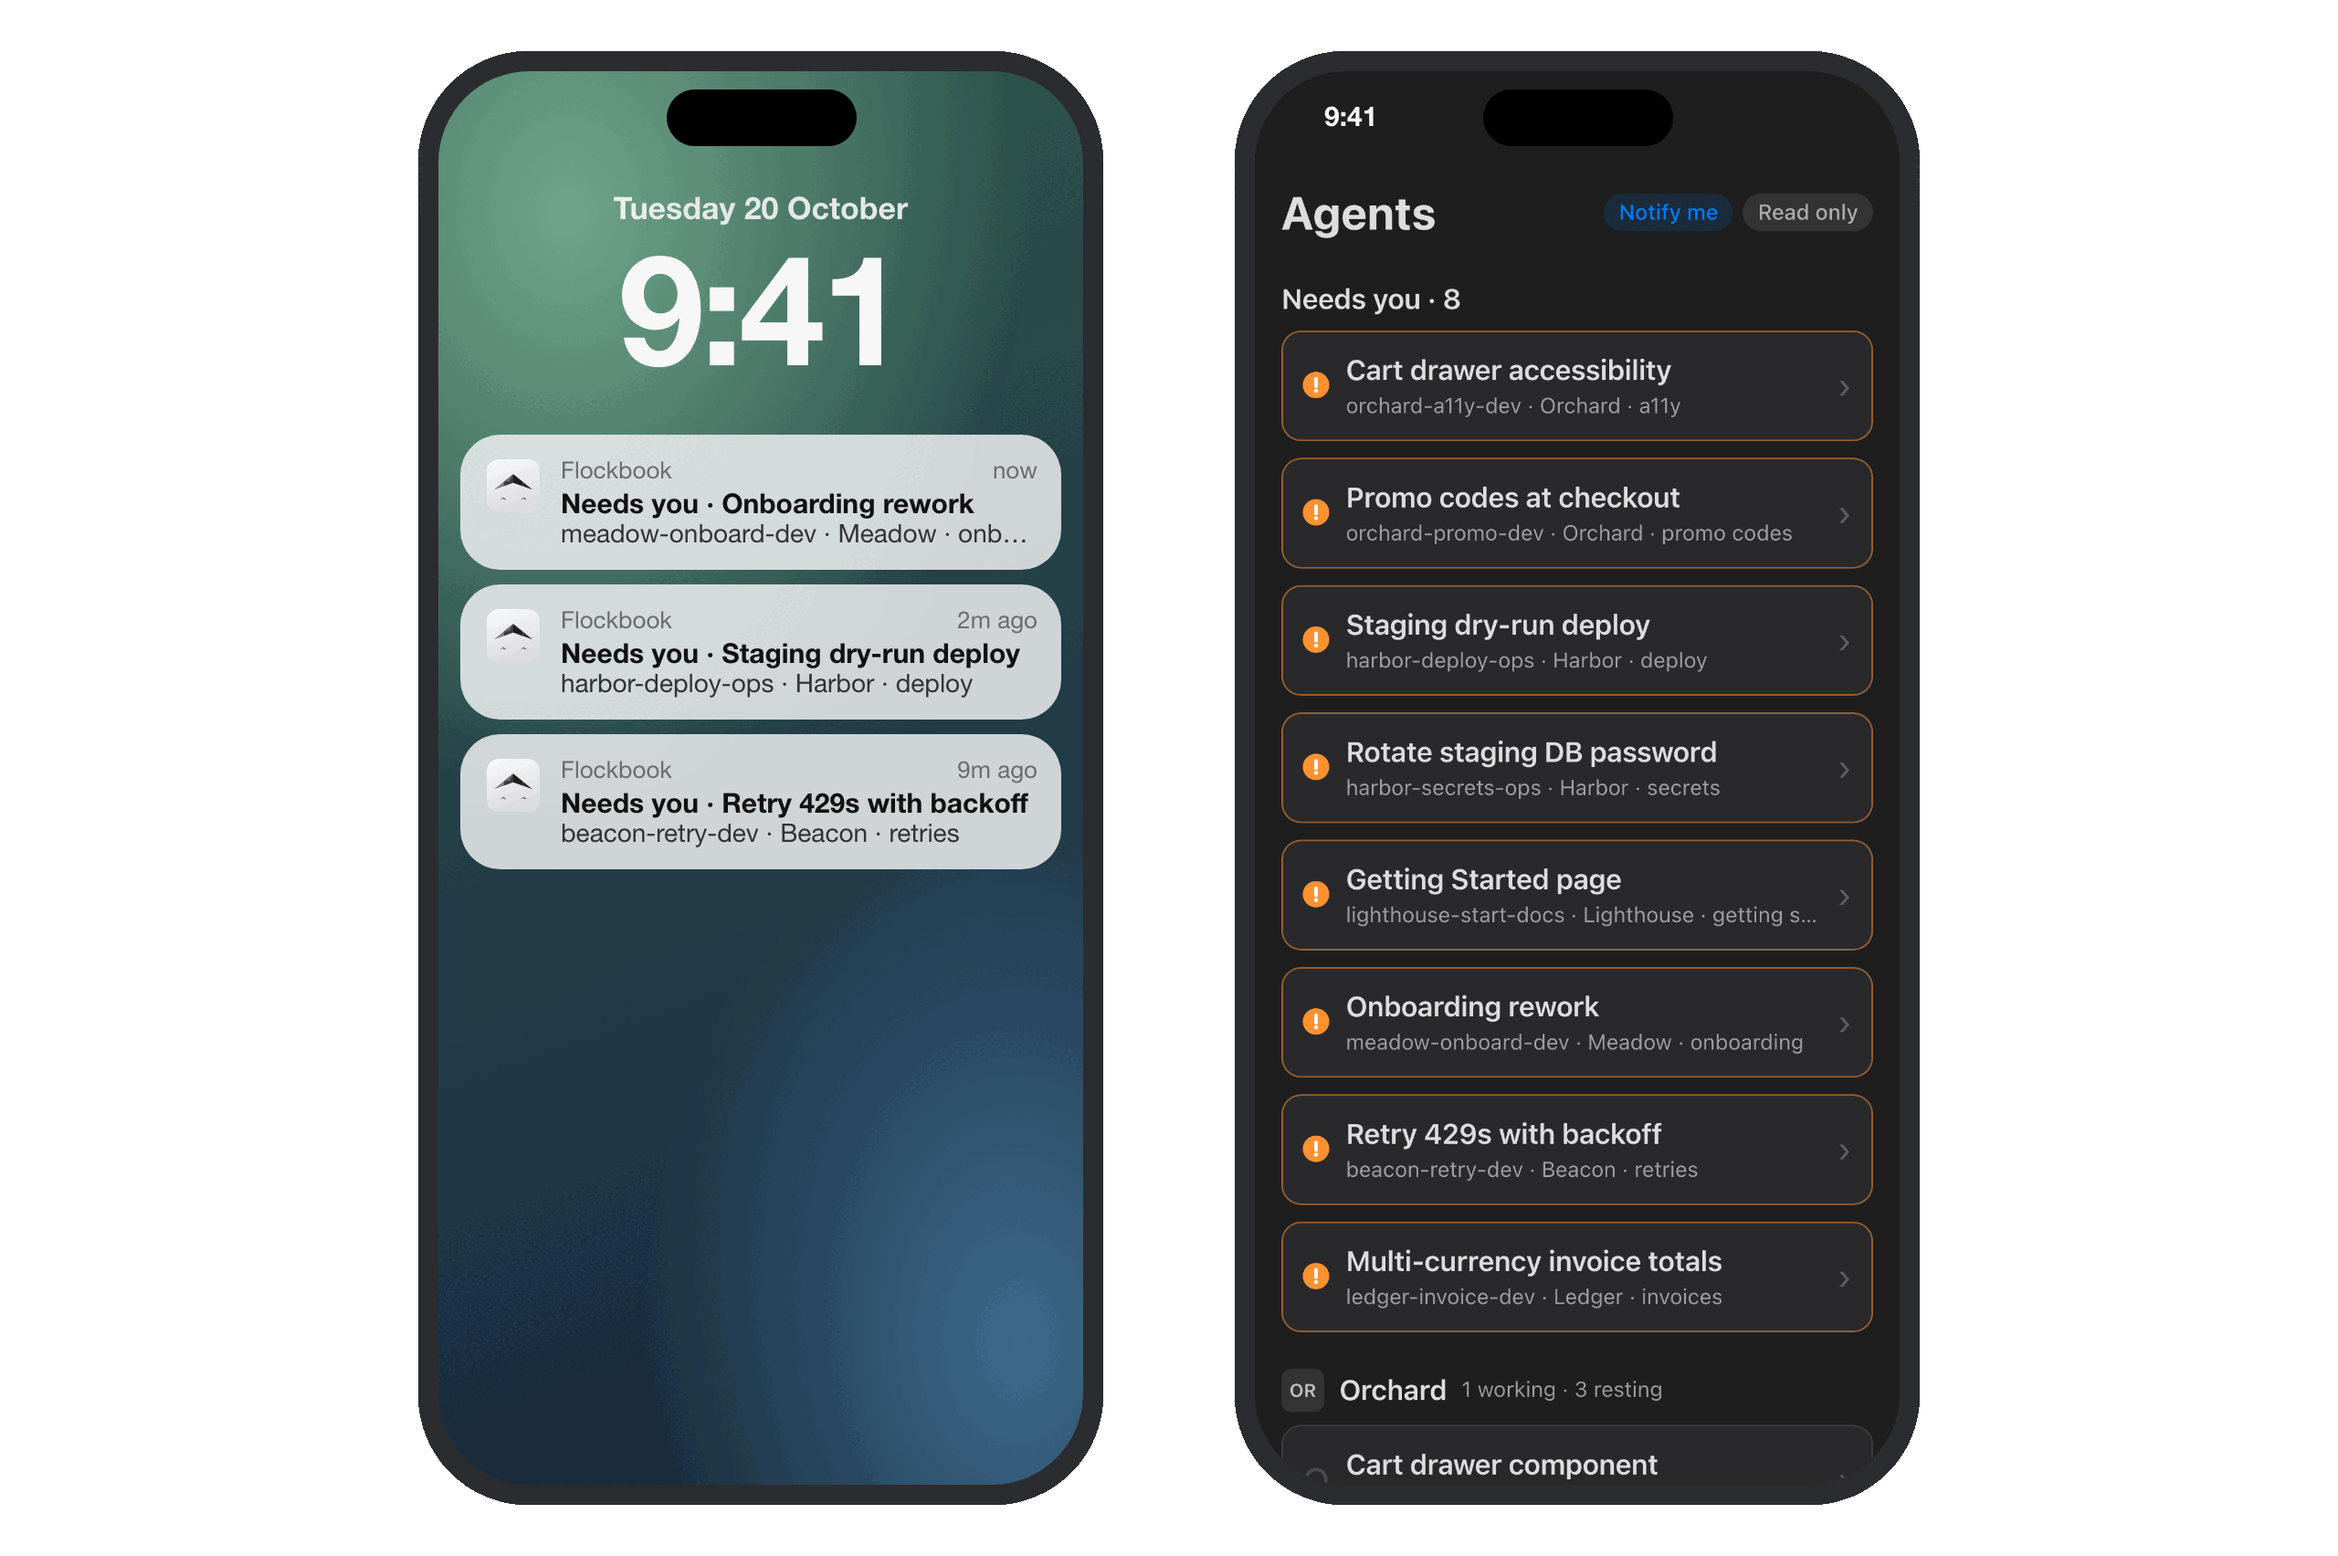
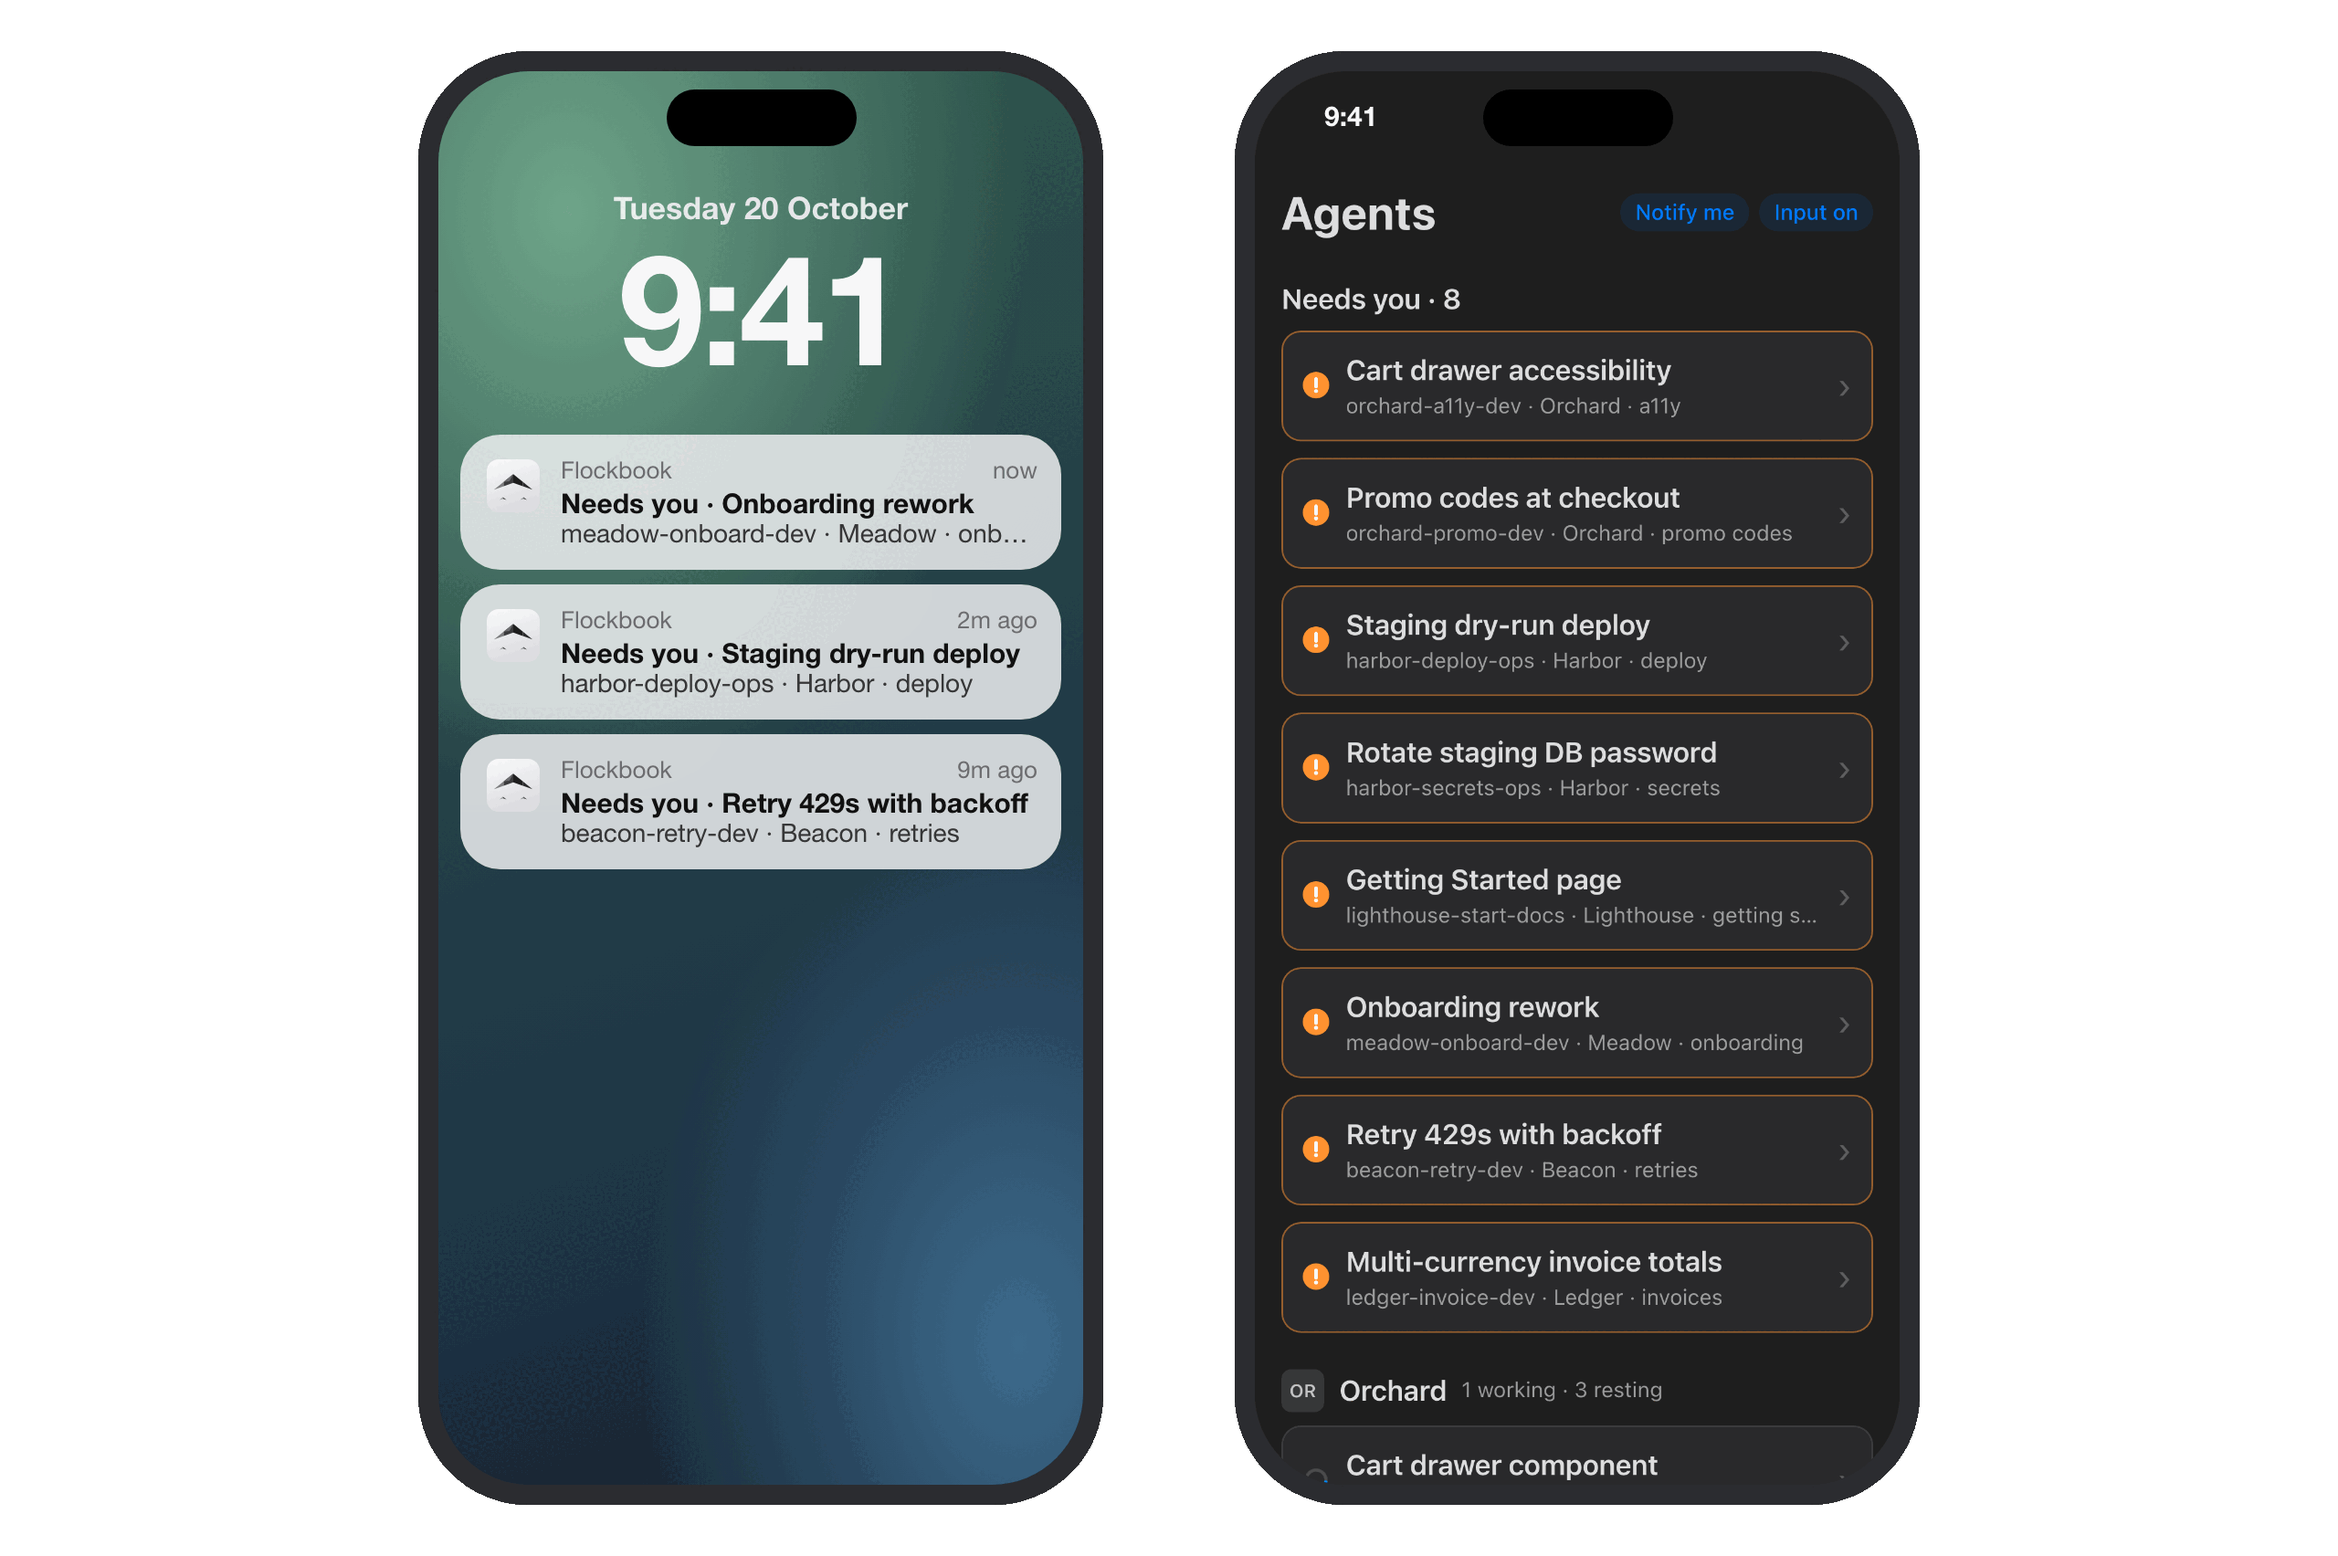
Phone stills with an input device that is revoked after; remote access wording covers the local network
The phone stills pair an input-level device (demo sessions only) so the page
shows as a paired phone's does. The page may only send reads; anything else is
dropped and fails the run. The hub revokes the device when it stops.

Claude-Session: https://claude.ai/code/session_01VoeBGcczPnVqJsC1AMi8vz

Changed region(s): [[0.6875, 0.1244, 0.8125, 0.1555], [0.625, 0.8087, 0.6562, 0.8398]]

diff --git a/Sources/HerdrDesk/HubLiveTest.swift b/Sources/HerdrDesk/HubLiveTest.swift
@@ -207,7 +207,9 @@ enum HubLiveTest {
 
     /// `--session <named> --serve-remote`: the app's RemoteHub on 127.0.0.1 (temp folder, new certificate) with one
     /// read-level test device, for the browser smoke run (`scripts/web-test.mjs --live`). Prints one JSON line, serves
-    /// until stdin closes. A read device cannot send input.
+    /// until stdin closes. A read device cannot send input. `SERVE_REMOTE_LEVEL=input` (the phone stills,
+    /// scripts/demo/phone-stills.mjs): an input device instead, only on a demo session; the stills send nothing.
+    /// The device is revoked before the hub stops.
     static func serve(model: AppModel) async {
         try? await Task.sleep(for: .seconds(2))
         let dir = URL(fileURLWithPath: NSTemporaryDirectory() + "hkserve-\(UUID().uuidString)")
@@ -217,7 +219,12 @@ enum HubLiveTest {
         AppDefaults.store.set(RemoteHub.Mode.direct.rawValue, forKey: RemoteHub.modeKey)
         let store = FileDeviceStore(url: dir.appendingPathComponent("devices.json"))
         let token = HubToken.random()
-        store.add(token: token, device: HubDevice(id: "live-read", name: "Live read test", level: .read), paired: Date())
+        let input = ProcessInfo.processInfo.environment["SERVE_REMOTE_LEVEL"] == "input"
+        guard !input || model.store.session.name?.contains("demo") == true else {
+            print("serve-remote: FAIL an input device only on a demo session"); NSApp.terminate(nil); return
+        }
+        let device = input ? HubDevice(id: "live-input", name: "Demo stills", level: .input) : HubDevice(id: "live-read", name: "Live read test", level: .read)
+        store.add(token: token, device: device, paired: Date())
         let hub = RemoteHub(model: model, devices: store, dir: dir)
         hub.enabled = true
         for _ in 0..<50 where !hub.running && hub.problem == nil { try? await Task.sleep(for: .milliseconds(100)) }
@@ -226,6 +233,8 @@ enum HubLiveTest {
         if let d = try? JSONSerialization.data(withJSONObject: info, options: [.sortedKeys]) { print(String(decoding: d, as: UTF8.self)) }
         fflush(stdout)
         await Task.detached { while FileHandle.standardInput.availableData.count > 0 {} }.value
+        store.revoke(device: device.id)
+        print("serve-remote: revoked \(device.id) (\(store.device(id: device.id) == nil ? "gone" : "still there"))"); fflush(stdout)
         hub.enabled = false
         try? await Task.sleep(for: .milliseconds(200))
         try? FileManager.default.removeItem(at: dir)

diff --git a/site/src/routes/+page.svelte b/site/src/routes/+page.svelte
@@ -126,8 +126,8 @@
 				<dd>
 					Runs locally. Reads agent session logs on your Mac and talks to Herdr through its local socket.
 					No telemetry. It goes on the network only for the daily update check (you can turn it off) and, when
-					you turn them on, for remote access over your Tailscale network and for notifications through your
-					phone’s push service.
+					you turn them on, for remote access over Tailscale or your local network and for notifications
+					through your phone’s push service.
 				</dd>
 			</div>
 		</dl>

diff --git a/site/src/lib/content.js b/site/src/lib/content.js
@@ -53,7 +53,7 @@ export const features = [
 	{
 		id: 'phone',
 		title: 'Your agents on your phone',
-		body: 'Read, reply, answer and approve from your phone over your own Tailscale network. It is off until you turn it on.',
+		body: 'Read, reply, answer and approve from your phone over Tailscale or your local network. It is off until you turn it on.',
 		image: 'phone',
 		alt: 'Two phone screens: the list of agents that need you, and a conversation with pictures.'
 	},

diff --git a/README.md b/README.md
@@ -167,7 +167,7 @@ The Rust code in `xplat/` is an early port of Flockbook to Linux and Windows, bu
 
 ## Privacy
 
-Flockbook runs locally. It reads agent session logs on your Mac (`~/.claude/projects/`, `~/.codex/sessions/`, `~/.cursor/projects/`, `~/.pi/agent/sessions/`) and talks to Herdr through its local socket. It has no telemetry. It goes on the network only for the daily update check (you can turn it off) and, when you turn them on, for remote access over your Tailscale network and for phone notifications through the phone's push service.
+Flockbook runs locally. It reads agent session logs on your Mac (`~/.claude/projects/`, `~/.codex/sessions/`, `~/.cursor/projects/`, `~/.pi/agent/sessions/`) and talks to Herdr through its local socket. It has no telemetry. It goes on the network only for the daily update check (you can turn it off) and, when you turn them on, for remote access over Tailscale or your local network and for phone notifications through the phone's push service.
 
 ## How this was built
 
